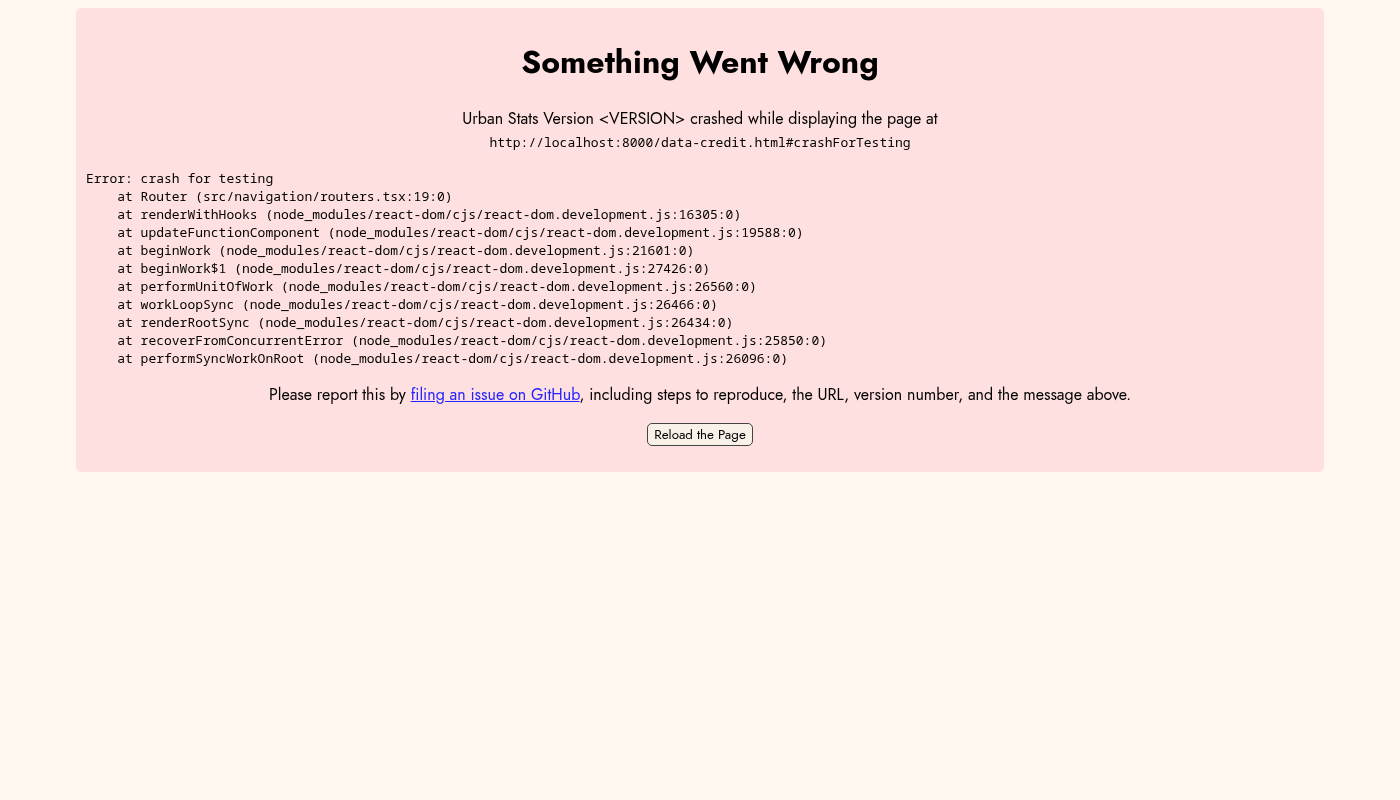
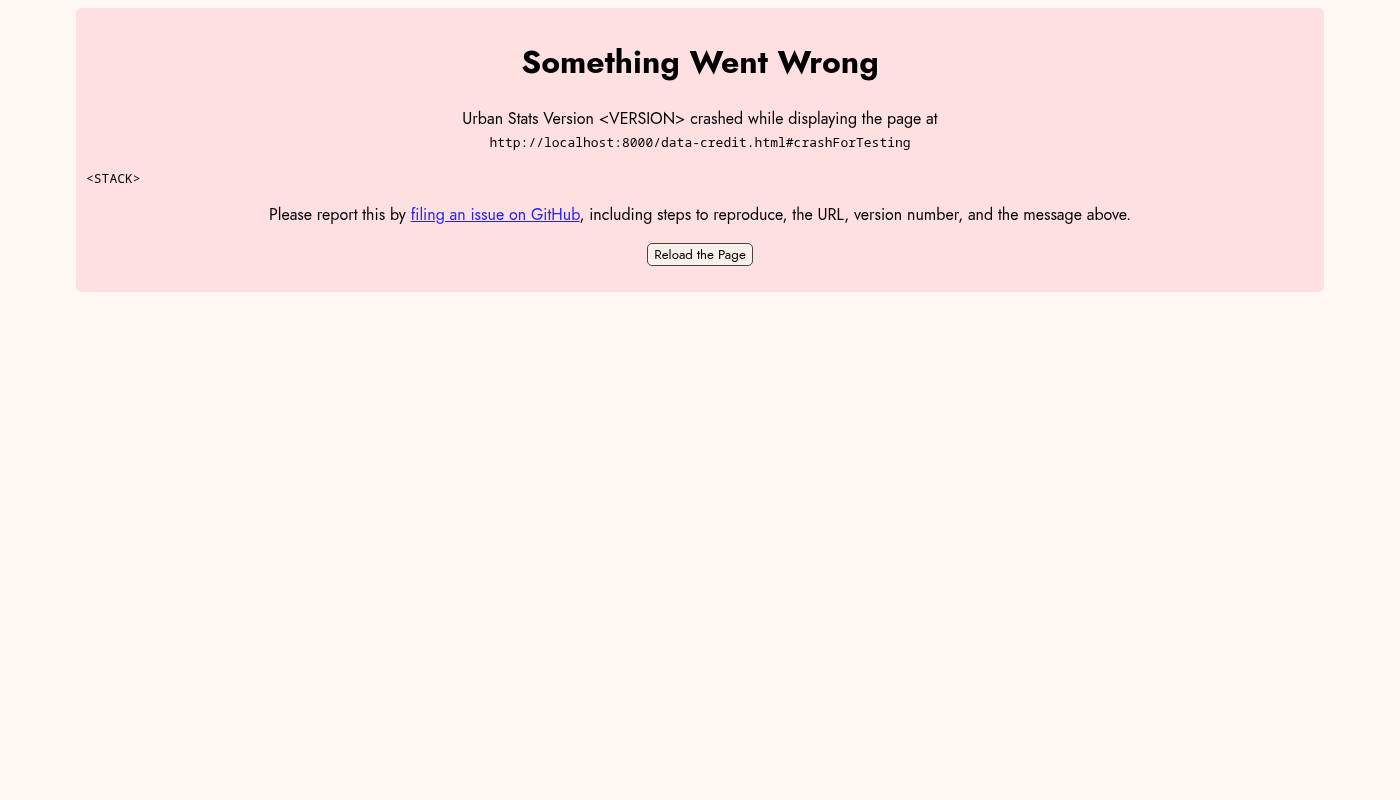
Address review: 1-based stack columns, and keep the stack out of the screenshot
Stack trace columns are 1-based while source map ones are 0-based, so the
symbolicated column could land in the following mapping.

The reference screenshot masks the stack, since its line numbers move
whenever the code above the throw does. The assertion above it still covers
the symbolication.

Changed region(s): [[0.0614, 0.2188, 0.7986, 0.5], [0.4607, 0.5312, 0.5529, 0.5625]]

diff --git a/react/src/ErrorBoundary.tsx b/react/src/ErrorBoundary.tsx
@@ -43,7 +43,8 @@ async function symbolicate(stack: string): Promise<string> {
         }
         // The fields are null when the position isn't in the map, which the types don't reflect
         const original: { source: string | null, line: number | null, column: number | null }
-            = (await consumers.get(bundle)!).originalPositionFor({ line: parseInt(lineNumber), column: parseInt(column) })
+            // Stack trace columns are 1-based, source map ones are 0-based
+            = (await consumers.get(bundle)!).originalPositionFor({ line: parseInt(lineNumber), column: parseInt(column) - 1 })
         if (original.source === null) {
             return line
         }

diff --git a/react/test/error_boundary.test.ts b/react/test/error_boundary.test.ts
@@ -21,6 +21,8 @@ test('displays the url and a symbolicated stack', async (t) => {
     await t.expect(errorScreen.innerText).contains('data-credit.html#crashForTesting')
     // Fetching and parsing the source map takes a while
     await t.expect(errorScreen.find('pre').innerText).contains('src/navigation/routers.tsx:', { timeout: 30000 })
+    // The line numbers in the stack shift whenever the code above the throw does
+    await t.eval(() => { document.querySelector('[data-test-id=uncaughtError] pre')!.textContent = '<STACK>' })
     await screencap(t)
 })
 
